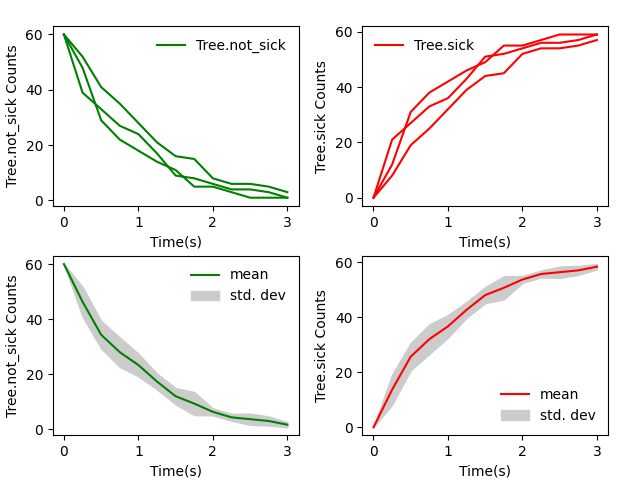
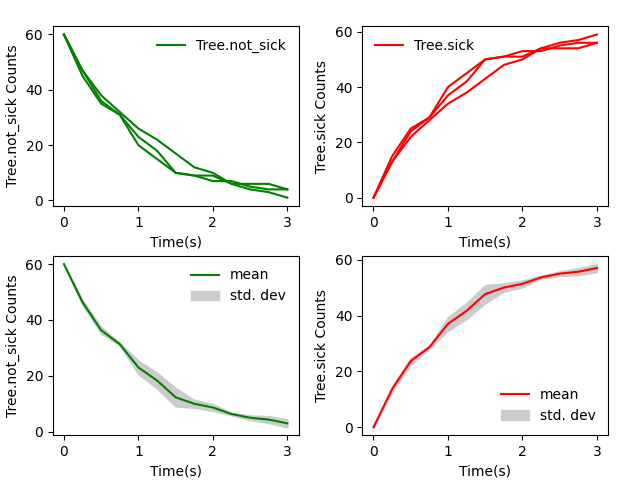
Time filter added. Fixed the reaction activation text. Changed species plot to have order

diff --git a/mobspy/plot_scripts/hierarchical_plot.py b/mobspy/plot_scripts/hierarchical_plot.py
@@ -3,7 +3,7 @@ import os.path
 import math
 import mobspy.plot_scripts.statistics_calculations as spd
 import mobspy.simulation_logging.log_scripts as simlog
-
+import mobspy.plot_scripts.process_plot_data as ppd
 import numpy as np
 import pickle as pkl
 from pathlib import Path
@@ -170,10 +170,7 @@ def find_parameter(params, key, index=None):
                 return params[key]
             except (KeyError, IndexError):
                 return None
-    # If two indexes are given
-    # Look inside the plot
-    # Than figure
-    # Than global
+    # If two indexes are given, look inside the plot, than figure, than global
     elif type(index) == tuple:
 
         try:
@@ -233,9 +230,12 @@ def plot_curves(data, axs, figure_index, plot_params):
         else:
             time_series = list(range(len(data)))
 
-        for spe in species:
+        if find_parameter(plot_params, key='time_filter', index=(figure_index, plot_index)) is not None:
+            low, high = find_parameter(plot_params, key='time_filter', index=(figure_index, plot_index))
+        else:
+            low, high = None, None
 
-            color_index = 0
+        for spe in species:
 
             # Get the parameters assigned to the species, if not assign empty for None returns
             if find_parameter(plot_params, key=spe, index=(figure_index, plot_index)) is not None:
@@ -266,22 +266,29 @@ def plot_curves(data, axs, figure_index, plot_params):
                 label = None
 
             for ts in time_series:
-                ts = data[ts]
+                ts_time = data['Time'][ts]
+                if '$' not in spe:
+                    ts_data = data[spe][ts]
+                else:
+                    ts_data = data[ts][spe]
+
+                if low is not None or high is not None:
+                    ts_time, ts_data = ppd.time_filter_operation(low, high, ts_time, ts_data)
 
                 try:
                     if find_parameter(plot_params, key='fill_between', index=(figure_index, plot_index)) is not None \
                             and find_parameter(plot_params, key='fill_between', index=(figure_index, plot_index)):
                         try:
-                            axs.fill_between(ts['Time'], ts[spe][0], ts[spe][1], color=curve_color,
+                            axs.fill_between(ts_time, ts_data[0], ts_data[1], color=curve_color,
                                              label=label)
                         except IndexError:
                             simlog.error('Fill_between must only have two or less runs referring to it')
                     else:
                         if curve_color is not None:
-                            axs.plot(ts['Time'], ts[spe], color=curve_color,
+                            axs.plot(ts_time, ts_data, color=curve_color,
                                      linestyle=linestyle, linewidth=linewidth, label=label)
                         else:
-                            axs.plot(ts['Time'], ts[spe],
+                            axs.plot(ts_time, ts_data,
                                      linestyle=linestyle, linewidth=linewidth, label=label)
                         label = None
                 except KeyError:

diff --git a/mobspy/plot_scripts/process_plot_data.py b/mobspy/plot_scripts/process_plot_data.py
@@ -48,9 +48,38 @@ def check_plot_parameters(species, plot_params):
         if spe in dictionary.keys():
             simlog.error(f'Plotting is impossible, species {spe} is a parameter name')
 
+    # Check if parameters are valid
+    validated_keys = set()
     for key in plot_params:
         if key not in dictionary and key not in species:
-            simlog.warning(f'Parameter {key} not supported')
+            continue
+        else:
+            validated_keys.add(key)
 
+    # Check if query is present
+    for key in plot_params:
+        if key in validated_keys:
+            continue
+        else:
+            spe_name = key.split('.')[0]
+            if spe_name not in species:
+                simlog.warning(f'Parameter {key} not supported')
+            validated_keys.add(key)
+
+
+def time_filter_operation(low, high, time_data, data):
+    new_time_data = []
+    new_data = []
+
+    for t, d in zip(time_data, data):
+        if t < low:
+            continue
+        elif low < t < high:
+            new_time_data.append(t)
+            new_data.append(d)
+        elif t > high:
+            break
+
+    return new_time_data, new_data
 
 

diff --git a/for_local_use.py b/for_local_use.py
@@ -1,75 +1,5 @@
 from mobspy import *
-import numpy as np
-import basico
-import matplotlib.pyplot as plt
-import os
-import inspect
-from mobspy.sbml_simulator.builder import build
-import timeit
-
 
 if __name__ == '__main__':
 
-    from mobspy import *
-
-    A, B = BaseSpecies()
-
-    A >> 2 * A[1.02]
-    B >> 2 * B[1]
-
-    A(1), B(1)
-    S1 = Simulation(A | B)
-    S1.duration = 3
-
-    A + B >> Zero[0.1]
-
-    S2 = Simulation(A | B)
-    S2.duration = (A <= 0) | (B <= 0)
-    S2.method = 'stochastic'
-
-    S = S1 + S2
-    S.plot_config.suptitle, S.plot_config.suptitle_fontsize = 'A vs B Algorithm', 16
-    S.repetitions = 5
-    S.run()
-
-    A = [(0, 0), (0, 0), (0, 0)]
-    B = A[1:]
-
-    for (a, b), (c, d) in zip(A, B):
-        print(a, b, c, d)
-
-    exit()
-
-    # Test script
-    x = MobsPyExpression('A', None, dimension=3,
-                         count_in_model=True,
-                         concentration_in_model=False,
-                         count_in_expression=False,
-                         concentration_in_expression=False)
-
-    r = x ** 2.8
-
-
-
-
-
-
-
-
-
-
-
-
-
-
-
-
-
-
-
-
-
-
-
-
-
+    pass

diff --git a/mobspy/plot_params/example_plot_reader.py b/mobspy/plot_params/example_plot_reader.py
@@ -20,7 +20,7 @@ def get_example_plot_parameters():
         'frameon': False,
 
         'xlabel': 'Something',
-        'ylabal': 'Something Else',
+        'ylabel': 'Something Else',
         'xlabel_fontsize': 14,
         'ylabel_fontsize': 14,
         'title': 'Test_Plot',
@@ -47,7 +47,8 @@ def get_example_plot_parameters():
         "unit_x": '',
         "unit_y": '',
         "output_concentration": False,
-        'simulation_method': 'stochastic'
+        'simulation_method': 'stochastic',
+        "time_filter": [0, 100000]
     }
     return example_parameters
 

diff --git a/test_script.py b/test_script.py
@@ -7,8 +7,6 @@ from mobspy import *
 import sys
 import matplotlib.pyplot as plt
 
-# TODO Plot has random order for species names
-
 
 # Compare results with expected file
 def compare_model(comp_results, file_name):
@@ -282,6 +280,9 @@ def test_unit_event_test():
 def test_reaction_deactivation():
     A, R = BaseSpecies(2)
     A + R >> 2 * A + R[1]
+
+    # Adding this reaction for compatibility reasons with python versions lower than 3.10
+    R >> Zero[1e-100]
 
     A(1), R(1)
     S1 = Simulation(A | R)

diff --git a/mobspy/plot_scripts/default_plots.py b/mobspy/plot_scripts/default_plots.py
@@ -17,8 +17,9 @@ def read_plot_json(plot_json_filename):
     with open(plot_json_filename, 'r') as file:
         try:
             json_data = json.load(file)
-        except Exception:
-            simlog.error(f'Error while decoding json file "{plot_json_filename}".')
+        except Exception as e:
+            simlog.error(f'The following error happened while decoding json file "{plot_json_filename}":\n' +
+                         str(e))
 
     return json_data
 
